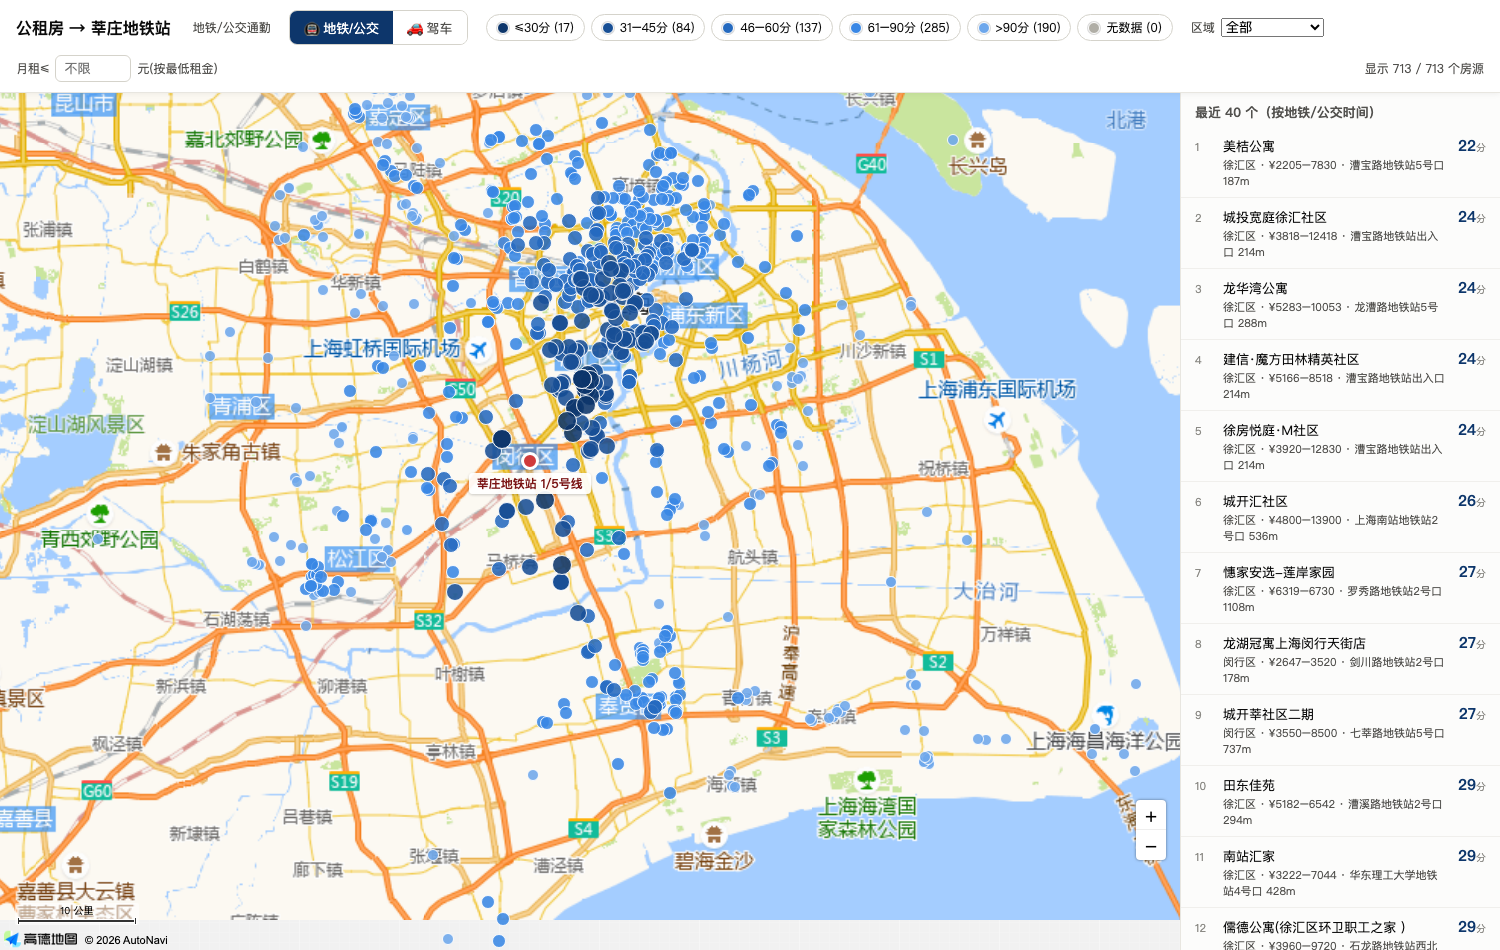
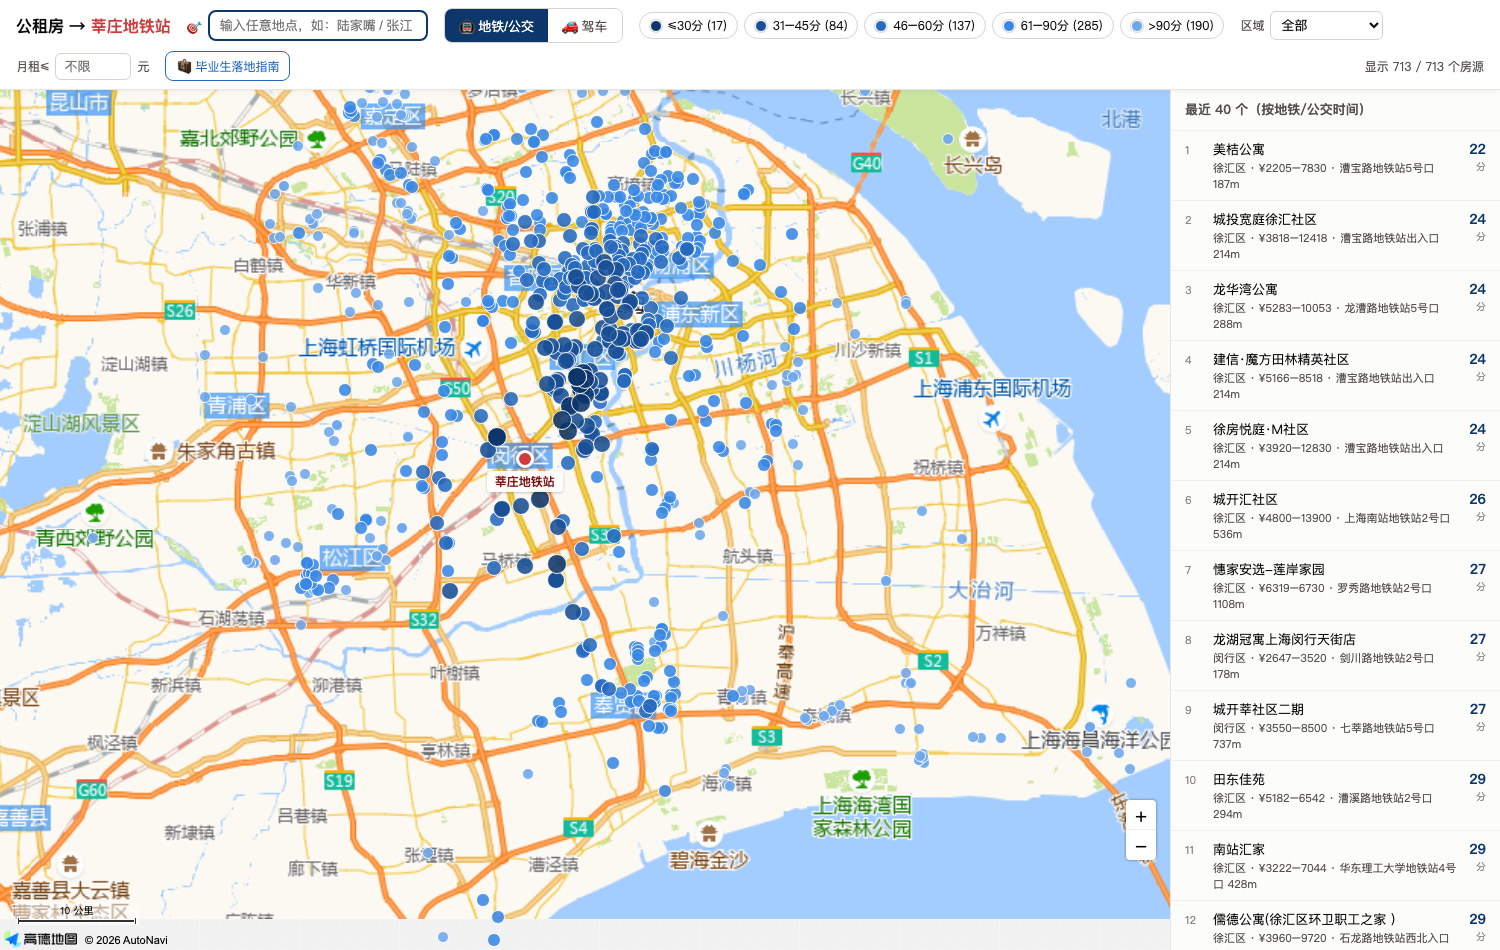
README 全面刷新对齐现状:三张最新截图(含指南宫格)/双文件输出说明/精算全部与一视同仁/定价折扣FAQ/分享版key存储FAQ/生成物清单

diff --git a/README.md b/README.md
@@ -2,19 +2,20 @@
 
 刚毕业要来上海？这个仓库给你两件工具：
 
-1. **🗺 公租房通勤地图**（`map.html`）：输入你的通勤目的地（公司/学校/地铁站），把全上海 700+ 个公租房/保租房项目按"离你有多近"排出来，画在一张可交互的地图上——地铁/驾车双模式、真实路线时间、租金户型电话全都有；
-2. **🧳 毕业生落地指南**（`guide.html`）：**零配置，下载后双击就能用**——应届生落户直通道自测 + 72 分计算器、居住证积分 120 分速算、保租房/公租房/市场租房三条路线对比（含公积金租房提取攻略、避坑清单）、落地 30 天可勾选清单。
+1. **🗺 公租房通勤地图**：输入你的通勤目的地（公司/学校/地铁站），把全上海 700+ 个公租房/保租房项目按"离你有多近"排出来，画在一张可交互的地图上——地铁/驾车双模式、真实路线时间、租金户型电话全都有，且支持**在地图上随时换任意目的地**；
+2. **🧳 毕业生落地指南**（`guide.html`）：**零配置，下载后双击就能用**——首页是八宫格模块卡片，覆盖落户自测（直落判定+72 分计算器）、居住证积分 120 速算、租房路线图、求职与到手工资计算器、就医指南、新城对比与通勤成本计算器、落地 30 天清单。
 
 地图需要免费注册高德 Key（教程在下面）；不用会写代码，跟着点鼠标就能跑起来。会用 AI 助手（Claude Code / Codex / WorkBuddy / Trae）的话，把本文末尾的提示词粘给它，5 分钟配完。
 
-| 全量精算模式（默认目的地） | 任意目的地模式（示例：陆家嘴） |
-|---|---|
-| ![preset](docs/screenshot-preset.png) | ![custom](docs/screenshot-custom.png) |
+| 地图 · 全量精算模式 | 地图 · 任意目的地模式 | 指南 · 首页宫格 |
+|---|---|---|
+| ![preset](docs/screenshot-preset.png) | ![custom](docs/screenshot-custom.png) | ![guide](docs/screenshot-guide.png) |
 
-## 它能干什么
+## 地图能干什么
 
 - **按通勤时间给房源着色排序**：地铁/公交和驾车两套时间，来自高德的真实路线规划，不是直线距离拍脑袋；
-- **地图上换任意目的地**：搜索框输入任意地点（或右键地图选点），713 个房源立刻按直线距离重排，并自动对最近的 30 个实算真实通勤时间；
+- **任意目的地，一视同仁**：搜索框输入任意地点（或右键地图选点），713 个房源立刻按直线距离重排，自动对最近 30 个实算真实通勤；想更全有「再精算 30 个」和「**精算全部**」（点击前会告知配额消耗与耗时，可随时停止），已精算的房源自动按真实时间排到列表前面；
+- **筛选**：区域下拉、月租上限、时间桶开关组合使用；
 - **每个房源可点开**：租金、户型、面积、最近地铁站与步行距离、管家电话、一键跳高德导航；
 - **导出 Excel 排名表**（result.csv），想怎么筛怎么筛。
 
@@ -27,6 +28,8 @@
    - **Mac**：系统自带，打开「终端」输入 `python3 --version` 确认；
    - **Windows**：去 [python.org/downloads](https://www.python.org/downloads/) 下载安装，**安装时勾选 "Add Python to PATH"**，然后在「命令提示符」输入 `python --version` 确认；
 3. 大约 20 分钟（其中 15 分钟是程序自己在跑，你可以去倒杯水）。
+
+只想用落地指南的话，什么都不用准备：下载后双击 `guide.html` 完事。
 
 ---
 
@@ -75,41 +78,39 @@
 ```bash
 # Mac 用 python3,Windows 用 python
 python3 enrich.py       # 第 1 条:算通勤。约 15-30 分钟,进度会一直打印
-python3 build_map.py    # 第 2 条:生成地图。1 秒出结果
+python3 build_map.py    # 第 2 条:生成地图。1 秒出两个文件
 ```
 
 说明：
 
-- `enrich.py` **支持断点续传**——中途断网、按 Ctrl+C 中止、配额用完，都没关系，重新运行会接着上次的进度跑；
-- 跑完会生成 `result.csv`（Excel 可开的排名表）和 `enrich_cache.json`（缓存）；
-- `build_map.py` 生成 **`map.html`**——双击它，浏览器打开就是你的通勤地图。
+- `enrich.py` **支持断点续传**——中途断网、按 Ctrl+C 中止、配额用完，都没关系，重新运行会接着上次的进度跑；跑完顺便导出 `result.csv`（Excel 可开的排名表）；
+- `build_map.py` 一次生成**两个地图文件**：
+  - **`map.html`（个人版）**：内嵌你的 JS Key，双击就能用——自己用这个，**不要外传**；
+  - **`map-share.html`（分享版）**：**不含任何 Key**，随便发给朋友。对方打开会看到一张 2 分钟配置引导卡，粘贴 TA 自己免费注册的 JS Key（只存对方本机浏览器，谁用谁出配额）。
 
 ## 第四步：怎么用这张地图
 
 - 顶部**色块图例**：颜色越深离目的地越近，点色块可以隐藏/显示对应档位；
 - **区域下拉 + 月租上限**：组合筛选；
-- **🎯 搜索框**：输入任意新目的地（或**右键地图**任意位置），全部房源立刻按直线距离重排，右侧列表自动逐个"点亮"真实通勤时间（默认精算最近 30 个，可点"再精算 30 个"继续）；
-- 点任何圆点：租金/户型/最近地铁站/管家电话/跳高德导航；
-- 进阶：给 `map.html` 的地址栏结尾加 `#dest=经度,纬度,名称` 可以直达某个目的地视图。
+- **🎯 搜索框**：输入任意新目的地（或**右键地图**任意位置）→ 全部房源按直线距离重排 → 自动精算最近 30 个的真实通勤 → 需要更多就点「再精算 30 个」或「精算全部」（会先告知配额成本，可随时停止）；已精算的按真实时间排到列表前面；
+- **「回到 XX（全量精算）」按钮**：切回 config.json 里那个目的地的 713 个全量精确数据；
+- 点任何圆点：租金/户型/最近地铁站/管家电话/跳高德导航；顶部还有「🧳 毕业生落地指南」入口；
+- 进阶：地址栏结尾加 `#dest=经度,纬度,名称` 直达某个目的地视图。
 
-> **两个版本，分工明确**：`build_map.py` 会同时生成
-> - **map.html（个人版）**：内嵌你的 JS Key，自己用，**不要外传**；
-> - **map-share.html（分享版）**：**不含任何 Key**，随便发。对方打开会看到一张 2 分钟配置引导卡，粘贴 TA 自己免费注册的 JS Key（只存在 TA 本机浏览器 localStorage，谁的配额谁出）。想一起发 `guide.html` 也可以，它本来就零配置。
->
-> 要做公开网站服务的话，请给 JS Key 绑定域名白名单，并把安全密钥改为服务端代理模式（`_AMapSecurityConfig.serviceHost`）。
+> 想做成公开网站服务？请给 JS Key 绑定域名白名单，并把安全密钥改为服务端代理模式（`_AMapSecurityConfig.serviceHost`）。个人和小范围分享用上面两个文件就够了。
 
 ---
 
 ## 🧳 附赠:毕业生落地指南(不用配任何 Key)
 
-`guide.html` 是纯静态页面,下载仓库后**直接双击打开**即可,含七个模块:
+`guide.html` 是纯静态页面,下载仓库后**直接双击打开**即可。首页是八宫格模块卡片(七个模块+通勤地图直达),点卡进入,顶部 tab 随时切换,`#hash` 可直达任意模块(如 `guide.html#job`):
 
 1. **落户自测**:先判定你是否命中应届生**直接落户**通道(博士/双一流硕士/在沪一流大学本科/五个新城就业等),没命中再用 **72 分计算器**估分;附受理窗口提醒(只在毕业当年!)与替代路径;
 2. **居住证积分速算**:本科有学位(90 分)+年龄(30 分)=120 达标——很多毕业生不知道自己"白送"达标;
-3. **租房路线图**:保租房(毕业 2 年内凭毕业证可申、约市场 9 折)→公租房(配合本项目地图挑)→市场租房(6 条避坑),附**公积金租房月提取 4000 元**设置方法和各区人才补贴查询姿势;
-4. **求职与到手工资**:上海版**到手工资计算器**(2025-2026 社保公积金基数+个税,含公积金双边入账视角)、应届 offer 薪资数据去哪查、签约六大坑(培训贷/传销/试用期/应届身份与社保);
+3. **租房路线图**:保租房(毕业 2 年内凭毕业证可申、政策红线为同地段市场租金九折以下)→公租房(略低于市场价,配合地图挑)→市场租房(6 条避坑),附**公积金租房月提取 4000 元**设置方法和各区人才补贴查询姿势;
+4. **求职与到手工资**:上海版**到手工资计算器**(2025-2026 社保公积金基数+个税,含公积金双边入账视角)、应届 offer 薪资数据去哪查、签约六大坑(培训贷/传销/试用期/应届身份与社保)、考公考编日历;
 5. **就医指南**:公立三甲"白名单思维"+按毛病找医院速查表、官方挂号渠道、**莆田系识别五特征**(附 GitHub 众包名单仓库及其时效性提醒)、医保三段式报销与亲情账户/异地备案、962525 心理热线;
-6. **新城与通勤账**:五个新城对比表(用本仓库房源数据算的区级租金中位数——**新城约为市区一半**)+落户 buff(居转户 7→5 年/临港 3 年)+考公考编日历+**通勤成本计算器**(地铁计价+满 70 打 9 折);
+6. **新城与通勤账**:五个新城对比表(用本仓库房源数据算的区级租金中位数——**新城约为市区一半**)+落户 buff(居转户 7→5 年/临港 3 年)+**通勤成本计算器**(地铁计价+满 70 打 9 折);
 7. **落地 30 天清单**:12 件事按顺序勾,进度自动保存(居住登记等有硬时限的事项已标红)。
 
 > 政策数值为 2026-07 整理,页面内每个模块都附了官方来源链接;政策每年更新,正式申报以当年官方文件为准,欢迎 PR 修订。
@@ -121,7 +122,7 @@ python3 build_map.py    # 第 2 条:生成地图。1 秒出结果
 如果你在用 AI 编程助手，整个教程可以浓缩成一段提示词。先把下面的模板填好空：
 
 ```text
-帮我跑通一个开源项目「上海公租房通勤地图」。
+帮我跑通一个开源项目「来上海落地包」(公租房通勤地图)。
 项目地址:https://github.com/USERNAME/gzf-commute-map (或:我已下载解压到 ___ )
 我的通勤目的地:___(例:张江高科地铁站)
 高德 Web服务 Key:___
@@ -132,7 +133,7 @@ JS API 安全密钥:___
 1. 把项目下载/解压到本地(已给路径就跳过);确认 Python 3.9+ 可用,没有就先帮我装;
 2. 复制 config.example.json 为 config.json,把上面四个值填进去;
 3. 运行 enrich.py(要 15-30 分钟,有进度输出;它支持断点续传,中断就重跑);
-4. 运行 build_map.py 生成 map.html 并帮我打开;
+4. 运行 build_map.py,会生成 map.html(我自己用)和 map-share.html(发朋友用),帮我打开 map.html;
 5. 读 result.csv,告诉我离目的地最近的 10 个房源(名称/通勤时间/租金)。
 注意:不需要安装任何第三方 Python 库;两个 Key 类型不同,别填反。
 ```
@@ -154,7 +155,7 @@ JS API 安全密钥:___
 
 `listings.csv` 是 2026-07 的快照。房源每月都有上下架，更新方法：
 
-1. 用 Excel/WPS 打开 `listings.csv`（前四列必填：**项目名称、区域、地址**，其余选填：户型、最低租金、最高租金、最小面积、最大面积、联系电话）；
+1. 用 Excel/WPS 打开 `listings.csv`（前三列必填：**项目名称、区域、地址**，其余选填：户型、最低租金、最高租金、最小面积、最大面积、联系电话）；
 2. 各区公租房运营机构的官网/公众号会公示当期房源，增删改行即可（保持表头不动，另存为 CSV UTF-8 格式）；
 3. 重新跑 `python enrich.py`——**已经算过的地址不会重算**，只补新增的，很快。
 
@@ -164,8 +165,10 @@ JS API 安全密钥:___
 
 - **报 INVALID_USER_KEY**：`config.json` 里 `amap_web_key` 填成了 JS API 类型的 Key（或复制时带了空格）。两个 Key 别填反。
 - **地图打开是白屏**：JS Key 和安全密钥没配对，或 `amap_js_security_code` 没填。F12 控制台会有 `INVALID_USER_SCODE` 字样。
+- **朋友打开分享版填的 Key 存在哪？**：只存在 TA 自己浏览器的 localStorage 里，不上传任何服务器；引导卡上有"清除已存 Key"入口。
 - **报"今日配额用完"**：免费额度按天重置，明天重跑 `enrich.py` 自动续传补齐。
 - **通勤时间和我实际体验不一样**：批量计算用的是**跑程序当时**的路况（建议白天跑）；地铁时间受高峰影响小，驾车早晚高峰请自行上浮 50%~100%。
+- **公租房/保租房是市场价打几折？**：保租房政策红线是"不高于同地段同品质市场租金的 90%"，公租房是"略低于市场"（无统一折扣）；网传"8 折"没有官方依据。本项目显示的都是各项目**实际挂牌租金**，不做折扣推算。
 - **想用在其他城市**：改 `config.json` 的 `city`，并替换 `listings.csv` 为你的房源表即可跑通主流程；`enrich.py` 里的行政区校验表（BOX/ADCODE）是上海专用的，其他城市会自动跳过校验（定位精度略降），欢迎 PR 补充你的城市。
 - **数据从哪来/准不准**：房源快照由个人从各区公租房运营机构的公开公示整理，仅供找房参考，以运营机构最新公示为准；本项目不含任何个人隐私数据。
 
@@ -180,9 +183,12 @@ gzf-commute-map/
 ├── enrich.py              第 1 步:批量计算通勤(高德 Web 服务 API)
 ├── build_map.py           第 2 步:生成 map.html(个人版)+map-share.html(无Key分享版)
 └── docs/                  截图
+
+运行后生成(不入库):config.json / enrich_cache.json / result.csv / map.html / map-share.html
 ```
 
 ## 致谢与许可
 
 - 地图与路线数据：[高德开放平台](https://lbs.amap.com/)（JSAPI 集成方式参考其官方 [amap-jsapi-skill](https://github.com/AMap-Web/amap-skills)）
+- 政策信息均在页面内标注官方来源，以当年官方文件为准
 - 许可证：MIT（`listings.csv` 房源快照整理自公开公示信息，随项目一并开放）